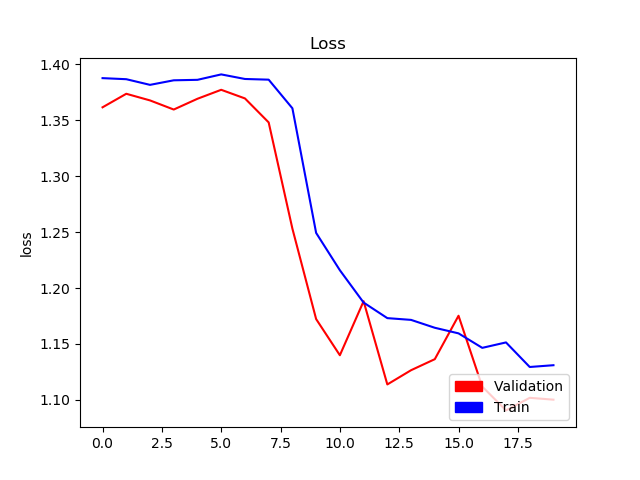
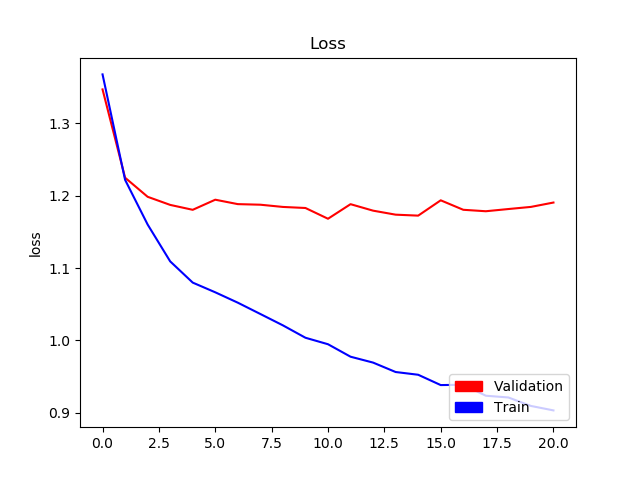
structure configs folder

diff --git a/helper.py b/helper.py
@@ -19,6 +19,17 @@ from callbacks.ConfusionMatrixLogger import ConfusionMatrixPlotter
 from callbacks.AccuracyLossLogger import AccLossPlotter
 
 
+
+def get_path(*_args):
+    if len(_args) == 2:
+        path = os.path.join(_args[0], _args[1])
+    elif len(_args) == 1:
+        path = os.path.join(os.getcwd(), _args[0])
+    else:
+        raise Exception("Unexpected Argument")
+
+    return path
+    
 def detect_gender(utterance):
     if utterance['id'][-4] == "M":
         gender = "male"
@@ -775,13 +786,28 @@ def train(config, model, xtrain, ytrain, xtest, ytest):
 
     accloss_logger = AccLossPlotter(model_name)
 
-    class_weights = class_weight.compute_class_weight('balanced',
+    class_weights_train = class_weight.compute_class_weight('balanced',
                                                       np.unique(ytrain.argmax(1)),
                                                       ytrain.argmax(1))
-    class_weights_dict = {}
-    for n in range(len(class_weights)):
-        class_weights_dict[n] = class_weights[n]
-    print("class_weights_dict", class_weights_dict)
+    class_weights_test = class_weight.compute_class_weight('balanced',
+                                                      np.unique(ytest.argmax(1)),
+                                                      ytest.argmax(1))
+    class_weights_train_dict = {}
+    for n in range(len(class_weights_train)):
+        class_weights_train_dict[n] = class_weights_train[n]
+    print("class_weights_train_dict", class_weights_train_dict)
+    print("class counts for training data:")
+    print(np.bincount(ytrain.argmax(1))[np.unique(ytrain.argmax(1))])
+
+    class_weights_test_dict = {}
+    for n in range(len(class_weights_test)):
+        class_weights_test_dict[n] = class_weights_test[n]
+    print("class_weights_test_dict", class_weights_test_dict)
+    print("class counts for testing data:")
+    print(np.bincount(ytest.argmax(1))[np.unique(ytest.argmax(1))])
+
+
+
     # tensorboard = TensorBoard(log_dir=path_to_log, histogram_freq=1, write_graph=False, write_grads=False)
     # cm_logger = ConfusionMatrixPlotter(xtrain, ytrain, emotion_class, model_name)
     lr_sched = step_decay_schedule(initial_lr=1e-4, decay_factor=0.75, step_size=4)
@@ -796,7 +822,7 @@ def train(config, model, xtrain, ytrain, xtest, ytest):
         f.write(model.to_json())
 
     # check_pointer = ModelCheckpoint(save_path, save_best_only=True)
-    early_stopping = EarlyStopping(monitor='val_loss', patience=5)
+    early_stopping = EarlyStopping(monitor='val_loss', patience=10)
 
     with tf.Session() as sess:
         sess.run(tf.global_variables_initializer())
@@ -804,8 +830,8 @@ def train(config, model, xtrain, ytrain, xtest, ytest):
         model.fit(xtrain, ytrain,
                     batch_size=batch_size, epochs=epochs, verbose=1,
                     validation_split=validation_split, shuffle=True,
-                    callbacks=[lr_sched, early_stopping],
-                    class_weight=class_weights_dict)
+                    callbacks=[lr_sched, early_stopping, accloss_logger],
+                    class_weight=class_weights_train_dict)
         print("trained. saving model...")
         model.save_weights(weights_save_path)
         print("Saved model to disk")

diff --git a/main.py b/main.py
@@ -11,15 +11,32 @@ def main():
     args = parse_command_line_args()
 
     if args.configpath:
-        with open(args.configpath) as json_data_file:
-            config = json.load(json_data_file)
+        if os.path.isfile(args.configpath):
+            with open(args.configpath) as json_data_file:
+                config = json.load(json_data_file)
 
-        model, xtrain, ytrain, xtest, ytest = load_model(config)
+            model, xtrain, ytrain, xtest, ytest = load_model(config)
 
-        model.summary()
-        train(config, model, xtrain, ytrain, xtest, ytest)
-        K.clear_session()
+            model.summary()
+            train(config, model, xtrain, ytrain, xtest, ytest)
+            K.clear_session()
 
+        elif os.path.isdir(args.configpath):
+            configs = os.listdir(args.configpath)
+            for cfg in configs:
+                if cfg[0] == '.':
+                    pass
+                else:
+                    configpath = get_path(args.configpath, cfg)
+                    with open(configpath) as json_data_file:
+                        config = json.load(json_data_file)
+
+                    model, xtrain, ytrain, xtest, ytest = load_model(config)
+                    model.summary()
+                    train(config, model, xtrain, ytrain, xtest, ytest)
+                    K.clear_session()
+        else: 
+            raise NotImplementedError("Wrong configuration path bro!")
     else:
         configs = os.listdir("configs")
         for cfg in configs:
